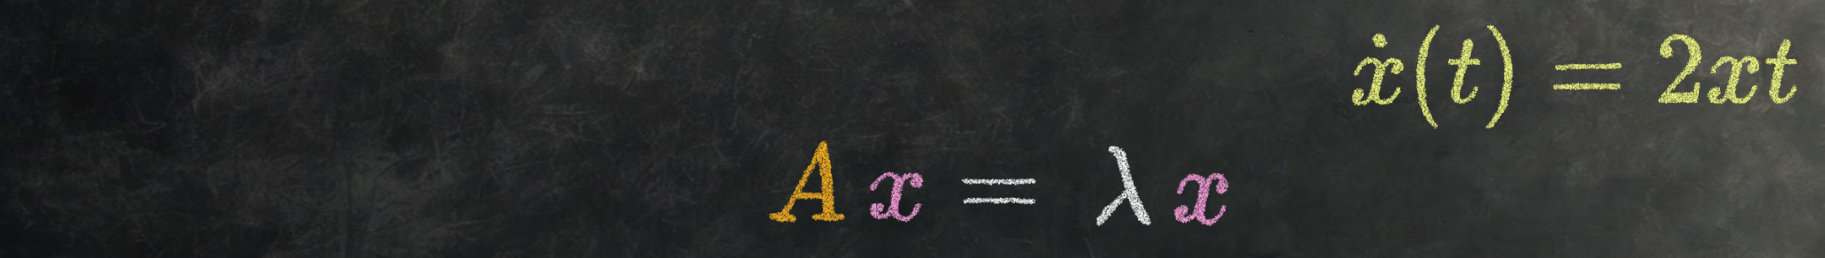
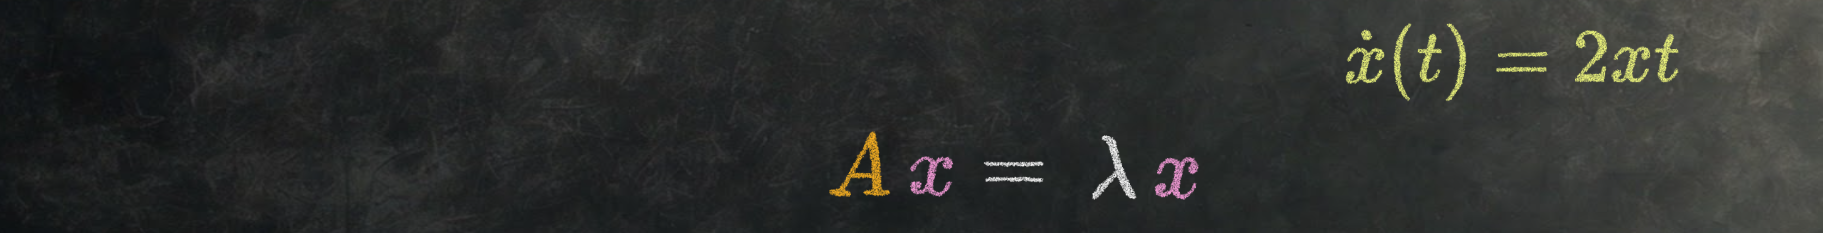
style fix

Changed region(s): [[0.7372, 0.0901, 0.983, 0.4807], [0.3993, 0.5408, 0.6758, 0.8712]]

diff --git a/_site/jekyll/update/welcome-to-website/index.html b/_site/jekyll/update/welcome-to-website/index.html
@@ -24,7 +24,7 @@
 <meta property="og:locale" content="en_US">
 <meta property="og:site_name" content="">
 <meta property="og:title" content="Welcome to My Website!">
-<meta property="og:url" content="/jekyll/update/welcome-to-website/">
+<meta property="og:url" content="http://localhost:4000/jekyll/update/welcome-to-website/">
 
 
   <meta property="og:description" content="This is a work in progress and a lot neads to be updated.">
@@ -46,7 +46,7 @@
   
 
 
-<link rel="canonical" href="/jekyll/update/welcome-to-website/">
+<link rel="canonical" href="http://localhost:4000/jekyll/update/welcome-to-website/">
 
 
 
@@ -667,7 +667,7 @@ window.MathJax = {
 
   
     <div class="author__avatar">
-      <a href="/">
+      <a href="http://localhost:4000/">
         <img src="/assets/images/test_image.jpg" alt="Aaron Zoll" itemprop="image" class="u-photo">
       </a>
     </div>
@@ -675,7 +675,7 @@ window.MathJax = {
 
   <div class="author__content">
     <h3 class="author__name p-name" itemprop="name">
-      <a class="u-url" rel="me" href="/" itemprop="url">Aaron Zoll</a>
+      <a class="u-url" rel="me" href="http://localhost:4000/" itemprop="url">Aaron Zoll</a>
     </h3>
     
       <div class="author__bio p-note" itemprop="description">
@@ -784,7 +784,7 @@ window.MathJax = {
       
         <header>
           <h1 id="page-title" class="page__title" itemprop="headline">
-            <a href="/jekyll/update/welcome-to-website/" itemprop="url">Welcome to My Website!
+            <a href="http://localhost:4000/jekyll/update/welcome-to-website/" itemprop="url">Welcome to My Website!
 </a>
           </h1>
           
@@ -864,19 +864,19 @@ window.MathJax = {
       <section class="page__share">
   <h4 class="page__share-title">Share on</h4>
 
-  <a href="https://x.com/intent/tweet?text=Welcome+to+My+Website%21%20%2Fjekyll%2Fupdate%2Fwelcome-to-website%2F" class="btn btn--x" aria-label="Share on X" onclick="window.open(this.href, 'window', 'left=20,top=20,width=500,height=500,toolbar=1,resizable=0'); return false;" title="Share on X">
+  <a href="https://x.com/intent/tweet?text=Welcome+to+My+Website%21%20http%3A%2F%2Flocalhost%3A4000%2Fjekyll%2Fupdate%2Fwelcome-to-website%2F" class="btn btn--x" aria-label="Share on X" onclick="window.open(this.href, 'window', 'left=20,top=20,width=500,height=500,toolbar=1,resizable=0'); return false;" title="Share on X">
     <i class="fas fa-fw fa-share-alt" aria-hidden="true"></i><span> X</span>
   </a>
 
-  <a href="https://www.facebook.com/sharer/sharer.php?u=%2Fjekyll%2Fupdate%2Fwelcome-to-website%2F" class="btn btn--facebook" aria-label="Share on Facebook" onclick="window.open(this.href, 'window', 'left=20,top=20,width=500,height=500,toolbar=1,resizable=0'); return false;" title="Share on Facebook">
+  <a href="https://www.facebook.com/sharer/sharer.php?u=http%3A%2F%2Flocalhost%3A4000%2Fjekyll%2Fupdate%2Fwelcome-to-website%2F" class="btn btn--facebook" aria-label="Share on Facebook" onclick="window.open(this.href, 'window', 'left=20,top=20,width=500,height=500,toolbar=1,resizable=0'); return false;" title="Share on Facebook">
     <i class="fab fa-fw fa-facebook" aria-hidden="true"></i><span> Facebook</span>
   </a>
 
-  <a href="https://www.linkedin.com/shareArticle?mini=true&url=/jekyll/update/welcome-to-website/" class="btn btn--linkedin" aria-label="Share on LinkedIn" onclick="window.open(this.href, 'window', 'left=20,top=20,width=500,height=500,toolbar=1,resizable=0'); return false;" title="Share on LinkedIn">
+  <a href="https://www.linkedin.com/shareArticle?mini=true&url=http://localhost:4000/jekyll/update/welcome-to-website/" class="btn btn--linkedin" aria-label="Share on LinkedIn" onclick="window.open(this.href, 'window', 'left=20,top=20,width=500,height=500,toolbar=1,resizable=0'); return false;" title="Share on LinkedIn">
     <i class="fab fa-fw fa-linkedin" aria-hidden="true"></i><span> LinkedIn</span>
   </a>
 
-  <a href="https://bsky.app/intent/compose?text=Welcome+to+My+Website%21%20%2Fjekyll%2Fupdate%2Fwelcome-to-website%2F" class="btn btn--bluesky" onclick="window.open(this.href, 'window', 'left=20,top=20,width=500,height=500,toolbar=1,resizable=0'); return false;" title="Share on Bluesky">
+  <a href="https://bsky.app/intent/compose?text=Welcome+to+My+Website%21%20http%3A%2F%2Flocalhost%3A4000%2Fjekyll%2Fupdate%2Fwelcome-to-website%2F" class="btn btn--bluesky" onclick="window.open(this.href, 'window', 'left=20,top=20,width=500,height=500,toolbar=1,resizable=0'); return false;" title="Share on Bluesky">
     <i class="fab fa-fw fa-bluesky" aria-hidden="true"></i><span> Bluesky</span>
   </a>
 </section>

diff --git a/_site/index.html b/_site/index.html
@@ -22,14 +22,14 @@
 <meta property="og:locale" content="en_US">
 <meta property="og:site_name" content="">
 <meta property="og:title" content="Aaron Zoll">
-<meta property="og:url" content="/">
+<meta property="og:url" content="http://localhost:4000/">
 
 
   <meta property="og:description" content="">
 
 
 
-  <meta property="og:image" content="/assets/images/about_banner.png">
+  <meta property="og:image" content="http://localhost:4000/assets/images/about_banner.png">
 
 
 
@@ -44,7 +44,7 @@
   
 
 
-<link rel="canonical" href="/">
+<link rel="canonical" href="http://localhost:4000/">
 
 
 
@@ -55,7 +55,7 @@
   "@context": "https://schema.org",
   "@type": "Person",
     "name": "Aaron Zoll",
-    "url": "/"
+    "url": "http://localhost:4000/"
 }
 </script>
 

diff --git a/_site/gallery/index.html b/_site/gallery/index.html
@@ -22,14 +22,14 @@
 <meta property="og:locale" content="en_US">
 <meta property="og:site_name" content="">
 <meta property="og:title" content="Gallery">
-<meta property="og:url" content="/gallery/">
+<meta property="og:url" content="http://localhost:4000/gallery/">
 
 
   <meta property="og:description" content="">
 
 
 
-  <meta property="og:image" content="/assets/images/desmos_gallery_background1.png">
+  <meta property="og:image" content="http://localhost:4000/assets/images/desmos_gallery_background1.png">
 
 
 
@@ -44,7 +44,7 @@
   
 
 
-<link rel="canonical" href="/gallery/">
+<link rel="canonical" href="http://localhost:4000/gallery/">
 
 
 

diff --git a/_site/teaching/lade/index.html b/_site/teaching/lade/index.html
@@ -22,14 +22,14 @@
 <meta property="og:locale" content="en_US">
 <meta property="og:site_name" content="">
 <meta property="og:title" content="LADE">
-<meta property="og:url" content="/teaching/lade/">
+<meta property="og:url" content="http://localhost:4000/teaching/lade/">
 
 
   <meta property="og:description" content="">
 
 
 
-  <meta property="og:image" content="/assets/images/lade_banner.png">
+  <meta property="og:image" content="http://localhost:4000/assets/images/lade_banner.png">
 
 
 
@@ -44,7 +44,7 @@
   
 
 
-<link rel="canonical" href="/teaching/lade/">
+<link rel="canonical" href="http://localhost:4000/teaching/lade/">
 
 
 

diff --git a/_site/research/index.html b/_site/research/index.html
@@ -22,14 +22,14 @@
 <meta property="og:locale" content="en_US">
 <meta property="og:site_name" content="">
 <meta property="og:title" content="Research">
-<meta property="og:url" content="/research/">
+<meta property="og:url" content="http://localhost:4000/research/">
 
 
   <meta property="og:description" content="">
 
 
 
-  <meta property="og:image" content="/assets/images/research_banner.png">
+  <meta property="og:image" content="http://localhost:4000/assets/images/research_banner.png">
 
 
 
@@ -44,7 +44,7 @@
   
 
 
-<link rel="canonical" href="/research/">
+<link rel="canonical" href="http://localhost:4000/research/">
 
 
 

diff --git a/_site/teaching/index.html b/_site/teaching/index.html
@@ -22,14 +22,14 @@
 <meta property="og:locale" content="en_US">
 <meta property="og:site_name" content="">
 <meta property="og:title" content="Teaching">
-<meta property="og:url" content="/teaching/">
+<meta property="og:url" content="http://localhost:4000/teaching/">
 
 
   <meta property="og:description" content="">
 
 
 
-  <meta property="og:image" content="/assets/images/teaching_banner.png">
+  <meta property="og:image" content="http://localhost:4000/assets/images/teaching_banner.png">
 
 
 
@@ -44,7 +44,7 @@
   
 
 
-<link rel="canonical" href="/teaching/">
+<link rel="canonical" href="http://localhost:4000/teaching/">
 
 
 

diff --git a/_site/analytics/index.html b/_site/analytics/index.html
@@ -22,14 +22,14 @@
 <meta property="og:locale" content="en_US">
 <meta property="og:site_name" content="">
 <meta property="og:title" content="Analytics">
-<meta property="og:url" content="/analytics/">
+<meta property="og:url" content="http://localhost:4000/analytics/">
 
 
   <meta property="og:description" content="">
 
 
 
-  <meta property="og:image" content="/assets/images/banner.png">
+  <meta property="og:image" content="http://localhost:4000/assets/images/banner.png">
 
 
 
@@ -44,7 +44,7 @@
   
 
 
-<link rel="canonical" href="/analytics/">
+<link rel="canonical" href="http://localhost:4000/analytics/">
 
 
 

diff --git a/_site/CV/index.html b/_site/CV/index.html
@@ -22,14 +22,14 @@
 <meta property="og:locale" content="en_US">
 <meta property="og:site_name" content="">
 <meta property="og:title" content="CV">
-<meta property="og:url" content="/cv/">
+<meta property="og:url" content="http://localhost:4000/cv/">
 
 
   <meta property="og:description" content="">
 
 
 
-  <meta property="og:image" content="/assets/images/about_banner.png">
+  <meta property="og:image" content="http://localhost:4000/assets/images/about_banner.png">
 
 
 
@@ -44,7 +44,7 @@
   
 
 
-<link rel="canonical" href="/cv/">
+<link rel="canonical" href="http://localhost:4000/cv/">
 
 
 

diff --git a/_site/desmos/lagrange-hermite-interpolation/index.html b/_site/desmos/lagrange-hermite-interpolation/index.html
@@ -22,7 +22,7 @@
 <meta property="og:locale" content="en_US">
 <meta property="og:site_name" content="">
 <meta property="og:title" content="Lagrange/Hermite Interpolation">
-<meta property="og:url" content="/desmos/lagrange-hermite-interpolation/">
+<meta property="og:url" content="http://localhost:4000/desmos/lagrange-hermite-interpolation/">
 
 
   <meta property="og:description" content="">
@@ -42,7 +42,7 @@
   
 
 
-<link rel="canonical" href="/desmos/lagrange-hermite-interpolation/">
+<link rel="canonical" href="http://localhost:4000/desmos/lagrange-hermite-interpolation/">
 
 
 

diff --git a/_site/desmos/inexact-interpolation/index.html b/_site/desmos/inexact-interpolation/index.html
@@ -22,7 +22,7 @@
 <meta property="og:locale" content="en_US">
 <meta property="og:site_name" content="">
 <meta property="og:title" content="L(delta) Inexactly Smooth Interpolation">
-<meta property="og:url" content="/desmos/inexact-interpolation/">
+<meta property="og:url" content="http://localhost:4000/desmos/inexact-interpolation/">
 
 
   <meta property="og:description" content="">
@@ -42,7 +42,7 @@
   
 
 
-<link rel="canonical" href="/desmos/inexact-interpolation/">
+<link rel="canonical" href="http://localhost:4000/desmos/inexact-interpolation/">
 
 
 

diff --git a/_site/desmos/inexact-construction/index.html b/_site/desmos/inexact-construction/index.html
@@ -22,7 +22,7 @@
 <meta property="og:locale" content="en_US">
 <meta property="og:site_name" content="">
 <meta property="og:title" content="L(delta) Inexactly Smooth Construction">
-<meta property="og:url" content="/desmos/inexact-construction/">
+<meta property="og:url" content="http://localhost:4000/desmos/inexact-construction/">
 
 
   <meta property="og:description" content="">
@@ -42,7 +42,7 @@
   
 
 
-<link rel="canonical" href="/desmos/inexact-construction/">
+<link rel="canonical" href="http://localhost:4000/desmos/inexact-construction/">
 
 
 

diff --git a/_site/desmos/modular-multiplication/index.html b/_site/desmos/modular-multiplication/index.html
@@ -22,7 +22,7 @@
 <meta property="og:locale" content="en_US">
 <meta property="og:site_name" content="">
 <meta property="og:title" content="Modular Multiplication">
-<meta property="og:url" content="/desmos/modular-multiplication/">
+<meta property="og:url" content="http://localhost:4000/desmos/modular-multiplication/">
 
 
   <meta property="og:description" content="">
@@ -42,7 +42,7 @@
   
 
 
-<link rel="canonical" href="/desmos/modular-multiplication/">
+<link rel="canonical" href="http://localhost:4000/desmos/modular-multiplication/">
 
 
 
